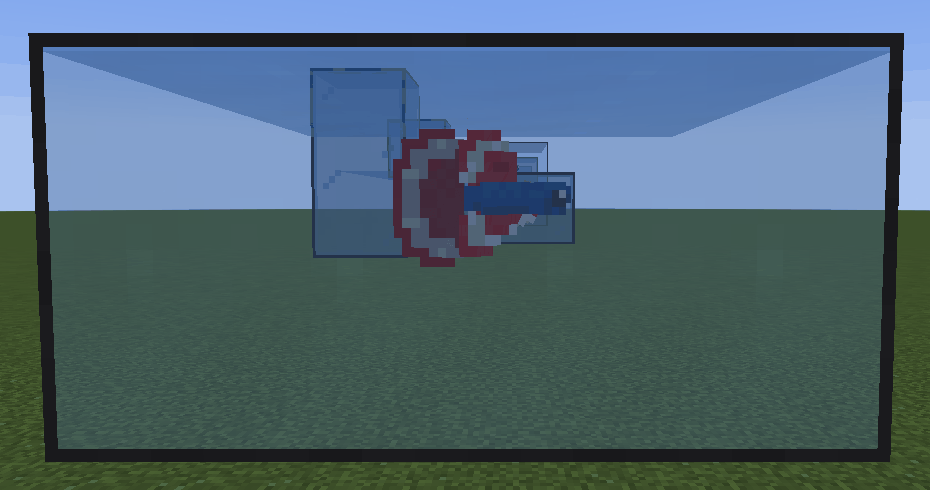
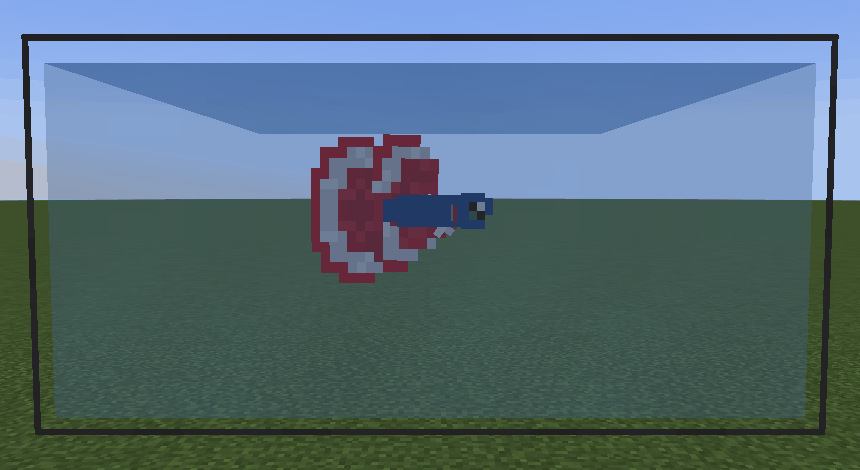
Mirror stick: a displaying male shows the mirror its side instead of its nose (bettas see with the eyes on the sides of the head): it turns broadside on the side that needs the smaller turn, keeps that side and sways slowly; flaring spreads the fins wider (caudal, dorsal, anal, pectorals, gill cover

diff --git a/src/main/java/org/overengineer/bettacraft/entity/betta/BettaEntity.java b/src/main/java/org/overengineer/bettacraft/entity/betta/BettaEntity.java
@@ -90,10 +90,15 @@ public class BettaEntity extends AbstractFish {
     Vec3 nestSpot;
     long nestUntil;
     long flareUntil, moodUntil;
-    /** M11: a mirror stick this male flares at (transient): it slows down and turns towards it. */
+    /**
+     * M11: a mirror stick this male flares at (transient): it holds still and shows it its side - bettas see with the
+     * eyes on the sides of the head, so a displaying male stands broadside to its rival, not nose to nose.
+     */
     @Nullable
     Vec3 mirrorAt;
     long mirrorUntil;
+    /** Which side faces the mirror while displaying (+90 or -90 degrees from the direction to it; 0 = not chosen yet). */
+    int mirrorSide;
     /** Fractional damage (fights, chasing) not applied yet; applied in whole points. */
     double pendingDamage;
     @Nullable
@@ -444,12 +449,20 @@ public class BettaEntity extends AbstractFish {
                 setDeltaMovement(fin.x * dm.x < 0 ? 0 : dm.x, fin.y * dm.y < 0 ? 0 : dm.y, fin.z * dm.z < 0 ? 0 : dm.z);
                 p = position();
             }
-            // M11: flaring at a mirror stick: hold still and face the mirror
+            // M11: flaring at a mirror stick: hold still, broadside to the mirror (one eye on it), swaying slowly
             if (mirrorAt != null && level().getGameTime() < mirrorUntil) {
                 double dx = mirrorAt.x - p.x, dz = mirrorAt.z - p.z;
                 if (dx * dx + dz * dz > 1e-4) {
-                    float want = (float) (net.minecraft.util.Mth.atan2(dz, dx) * (180F / Math.PI)) - 90F;
-                    setYRot(net.minecraft.util.Mth.approachDegrees(getYRot(), want, 12F));
+                    float towards = (float) (net.minecraft.util.Mth.atan2(dz, dx) * (180F / Math.PI)) - 90F;
+                    if (mirrorSide == 0) {
+                        // the side that needs the smaller turn
+                        float a = net.minecraft.util.Mth.wrapDegrees(towards + 90F - getYRot());
+                        float b = net.minecraft.util.Mth.wrapDegrees(towards - 90F - getYRot());
+                        mirrorSide = Math.abs(a) <= Math.abs(b) ? 90 : -90;
+                    }
+                    float sway = 15F * net.minecraft.util.Mth.sin(level().getGameTime() * 0.06F + getId());
+                    float want = towards + mirrorSide + sway;
+                    setYRot(net.minecraft.util.Mth.approachDegrees(getYRot(), want, 6F));
                     setYBodyRot(getYRot());
                     setYHeadRot(getYRot());
                 }
@@ -458,6 +471,7 @@ public class BettaEntity extends AbstractFish {
                 if (moveControl instanceof BettaMoveControl bmc) bmc.stopDirect();
             } else {
                 mirrorAt = null;
+                mirrorSide = 0;
             }
             // inside interior decoration (rock, castle ...): swim up and out, and drop a path that leads through it
             if (tickCount % 5 == 0 && level() instanceof ServerLevel server && insideDecor(server, p)) {

diff --git a/src/main/java/org/overengineer/bettacraft/gametest/StyleGameTests.java b/src/main/java/org/overengineer/bettacraft/gametest/StyleGameTests.java
@@ -251,6 +251,43 @@ public final class StyleGameTests {
         });
     }
 
+    /**
+     * A male displays broadside to the mirror (bettas see with the eyes on the sides of the head): starting nose to
+     * the mirror it turns about 90 degrees (plus a slow sway) and keeps its spot.
+     */
+    @GameTest(template = EMPTY, timeoutTicks = 200)
+    public static void maleShowsItsSideToTheMirror(GameTestHelper h) {
+        ServerLevel level = h.getLevel();
+        for (int x = 2; x <= 4; x++) for (int z = 2; z <= 4; z++) add(h, new BlockPos(x, 1, z), GLASS, TankStyle.CLEAN);
+        TankBlockEntity c = controller(h, new BlockPos(2, 1, 2));
+        TankInteractions.changeWater(level, c, 9000);
+        BettaEntity male = insert(h, c, false, 5);
+        male.setNoAi(true);
+        male.setNoGravity(true);
+        Vec3 centre = Vec3.atCenterOf(h.absolutePos(new BlockPos(3, 1, 3)));
+        ServerPlayer p = MockPlayers.serverPlayer(h);
+        p.moveTo(centre.x, centre.y - 1.62 + 0.1, centre.z - 3.5, 0F, 0F);
+        p.lookAt(EntityAnchorArgument.Anchor.EYES, centre);
+        p.setItemInHand(InteractionHand.MAIN_HAND, new ItemStack(ModItems.MIRROR_STICK.get()));
+        // nose to the mirror (the player is to the north: yaw 180)
+        male.moveTo(centre.x, centre.y, centre.z, 180F, 0F);
+        male.setYBodyRot(180F);
+        Vec3 start = male.position();
+        h.onEachTick(() -> {
+            if (h.getTick() % 10 == 0) MirrorStickItem.flareNear(level, p);
+        });
+        h.runAfterDelay(80, () -> {
+            Vec3 eye = p.getEyePosition();
+            float towards = (float) (net.minecraft.util.Mth.atan2(eye.z - male.getZ(), eye.x - male.getX()) * (180F / Math.PI)) - 90F;
+            float off = Math.abs(net.minecraft.util.Mth.wrapDegrees(male.getYRot() - towards));
+            h.assertTrue(male.isFlaring(), "flares");
+            h.assertTrue(off > 65 && off < 115, "broadside to the mirror: " + off + " degrees off the line to it");
+            h.assertTrue(male.position().distanceTo(start) < 0.3, "holds its spot");
+            p.discard();
+            h.succeed();
+        });
+    }
+
     private static BettaEntity insert(GameTestHelper h, TankBlockEntity c, boolean female, long seed) {
         BettaData d = BettaData.create(BettaGenotype.randomDomestic(RandomSource.create(seed)), female, 0);
         ItemStack bucket = BettaBucketItem.withFish(new ItemStack(ModItems.BETTA_BUCKET.get()), d);

diff --git a/src/main/java/org/overengineer/bettacraft/datagen/LangEn.java b/src/main/java/org/overengineer/bettacraft/datagen/LangEn.java
@@ -40,7 +40,7 @@ final class LangEn {
         a.accept("jade.bettacraft.tank.glass", "Glass: %s (%s)");
         a.accept("item.bettacraft.mirror_stick", "Mirror Stick");
         a.accept("tooltip.bettacraft.mirror_stick", "Hold it up in front of a tank: male bettas that see it flare at their reflection");
-        a.accept("info.bettacraft.mirror_stick", "Hold the mirror stick in either hand and look at a male betta (up to 6 blocks, also through the glass): it flares at its reflection, holds still and turns towards the mirror.\nMirror training: a male that flared at the mirror during the last day gets ready for a bubble nest a little faster (server config, 1.25x by default).\nCraft: glass pane, iron nugget and stick, one above the other.");
+        a.accept("info.bettacraft.mirror_stick", "Hold the mirror stick in either hand and look at a male betta (up to 6 blocks, also through the glass): it flares at its reflection, holds still and shows the mirror its side (bettas see sideways).\nMirror training: a male that flared at the mirror during the last day gets ready for a bubble nest a little faster (server config, 1.25x by default).\nCraft: glass pane, iron nugget and stick, one above the other.");
         a.accept("gui.bettacraft.breeding.cond.mirror", "~ Male trained at the mirror (gets ready faster)");
         a.accept("jade.bettacraft.betta.trained", "Trained at the mirror");
         a.accept("advancements.bettacraft.mirror.title", "Mirror, Mirror");

diff --git a/src/main/java/org/overengineer/bettacraft/client/DevClientSmokeM11.java b/src/main/java/org/overengineer/bettacraft/client/DevClientSmokeM11.java
@@ -124,14 +124,15 @@ final class DevClientSmokeM11 {
                 new Vec3(mirrorTank.getX() + 1.0, mirrorTank.getY() + 0.5, mirrorTank.getZ() + 0.9)));
         then(70, () -> mc.getToasts().clear());
         then(10, () -> shot("mirror"));
-        // the same male from the side while he still flares at the mirror (the flare holds 2 s after the last look)
-        then(1, () -> server(p -> p.setItemInHand(InteractionHand.MAIN_HAND, ItemStack.EMPTY)));
+        // the male shows the mirror its side (bettas see sideways): from the mirror's point of view, without GUI, with
+        // the stick still held up (handbook image)
         then(1, () -> {
             mc.options.hideGui = true;
-            lookAt(mirrorTank.getX() + 3.4, mirrorTank.getY() + 0.62, mirrorTank.getZ() + 0.9,
+            lookAt(mirrorTank.getX() + 1.0, mirrorTank.getY() + 0.62, mirrorTank.getZ() + 0.9 - 2.4,
                     new Vec3(mirrorTank.getX() + 1.0, mirrorTank.getY() + 0.5, mirrorTank.getZ() + 0.9));
         });
-        then(12, () -> shot("mirror_side"));
+        then(40, () -> shot("mirror_side"));
+        then(1, () -> server(p -> p.setItemInHand(InteractionHand.MAIN_HAND, ItemStack.EMPTY)));
         then(1, () -> server(p -> {
             p.setItemInHand(InteractionHand.MAIN_HAND, ItemStack.EMPTY);
             for (Entity e : TankInhabitants.liveInhabitants(p.serverLevel(), TankMultiblock.getController(p.serverLevel(), mirrorTank).getTank())) {

diff --git a/src/main/java/org/overengineer/bettacraft/client/model/BettaModel.java b/src/main/java/org/overengineer/bettacraft/client/model/BettaModel.java
@@ -108,12 +108,13 @@ public class BettaModel extends HierarchicalModel<BettaEntity> {
             // flaring: fins spread wide, gill covers open (head slightly wider), a slow gentle shimmy; eased in and
             // out (the flag toggles often in fights) and slow - the old 5 Hz pulse looked like the fish trembled
             float shiver = 1.0F + Mth.sin(age * 0.45F) * 0.02F * fl;
-            scale(caudal, 1.0F, (1.0F + 0.22F * fl) * shiver, 1.0F + 0.12F * fl);
-            scale(dorsal, 1.0F, (1.0F + 0.3F * fl) * shiver, 1.0F + 0.1F * fl);
-            scale(anal, 1.0F, (1.0F + 0.3F * fl) * shiver, 1.0F + 0.1F * fl);
-            scale(head, 1.0F + 0.18F * fl, 1.0F + 0.06F * fl, 1.0F);
-            pecL.yRot += 0.35F * fl;
-            pecR.yRot -= 0.35F * fl;
+            // (BettaExtents keeps these spread fins inside the glass: keep its flare factors in step)
+            scale(caudal, 1.0F, (1.0F + 0.35F * fl) * shiver, 1.0F + 0.15F * fl);
+            scale(dorsal, 1.0F, (1.0F + 0.5F * fl) * shiver, 1.0F + 0.2F * fl);
+            scale(anal, 1.0F, (1.0F + 0.5F * fl) * shiver, 1.0F + 0.2F * fl);
+            scale(head, 1.0F + 0.3F * fl, 1.0F + 0.08F * fl, 1.0F);
+            pecL.yRot += 0.6F * fl;
+            pecR.yRot -= 0.6F * fl;
         }
         if (sick) {
             // clamped fins: folded closer to the body

diff --git a/src/main/java/org/overengineer/bettacraft/entity/betta/BettaExtents.java b/src/main/java/org/overengineer/bettacraft/entity/betta/BettaExtents.java
@@ -54,10 +54,10 @@ public final class BettaExtents {
         double nose = (NOSE + MARGIN) * scale, tail = (tail(shape) + MARGIN) * scale, side = (SIDE + MARGIN) * scale;
         double top = (top(shape) + MARGIN) * scale, bottom = (bottom(shape) + MARGIN) * scale;
         if (flaring) {
-            // flaring spreads the fins (BettaModel: caudal 1.12 longer, dorsal and anal 1.3 higher)
-            tail *= 1.12;
-            top *= 1.15;
-            bottom *= 1.3;
+            // flaring spreads the fins (BettaModel: caudal 1.15 longer, dorsal and anal 1.5 higher)
+            tail *= 1.15;
+            top *= 1.35;
+            bottom *= 1.5;
         }
         // per axis the largest push in each direction; if the fish is too big for the water both add up (centred)
         double[] up = new double[3], down = new double[3];

diff --git a/tools/assetgen/guide_images.py b/tools/assetgen/guide_images.py
@@ -39,7 +39,7 @@ MENUS = {"menu_overview": "guide_menu_overview", "menu_inhabitants": "guide_menu
 M9_WORLD = {"water_care": ("bettacraft_m9_scene", (0, 240, 1140, 620)), "live_food": ("bettacraft_m9_breeders", (0, 100, 1060, 520))}
 M9_MENUS = {"menu_water": "bettacraft_m9_menu_water"}
 # M11 scene (DevClientSmokeM11): the three tank styles and a male flaring at the mirror stick (world shots without HUD)
-M11_WORLD = {"tank_styles": ("bettacraft_m11_styles", (60, 320, 1220, 570)), "mirror_stick": ("bettacraft_m11_mirror_side", (130, 250, 1060, 740))}
+M11_WORLD = {"tank_styles": ("bettacraft_m11_styles", (60, 320, 1220, 570)), "mirror_stick": ("bettacraft_m11_mirror_side", (210, 260, 1070, 730))}
 
 
 def save(im: Image.Image, path: Path) -> None:

diff --git a/src/main/resources/assets/bettacraft/guides/bettacraft/guide/bettas/fighting.md b/src/main/resources/assets/bettacraft/guides/bettacraft/guide/bettas/fighting.md
@@ -31,8 +31,9 @@ other without fighting. Opaque blocks between the tanks stop it.
 <RecipeFor id="bettacraft:mirror_stick" />
 
 Hold the <ItemLink id="bettacraft:mirror_stick" /> in either hand and look at a male: every adult male within 6 blocks
-in front of you that can see the mirror (also through the glass) flares at his reflection, holds still and turns
-towards it. It is mainly for show, and a little **mirror training**: a male that flared at the mirror during the last
+in front of you that can see the mirror (also through the glass) flares at his reflection, holds still and shows
+it his side: bettas see with the eyes on the sides of the head, so a displaying male stands broadside to his rival,
+swaying slowly. It is mainly for show, and a little **mirror training**: a male that flared at the mirror during the last
 in-game day gets ready for a bubble nest 1.25 times faster (`breeding.mirrorReadinessBonus`, 1 = purely cosmetic).
 The breeding tab and the info overlays show "Trained at the mirror".
 
